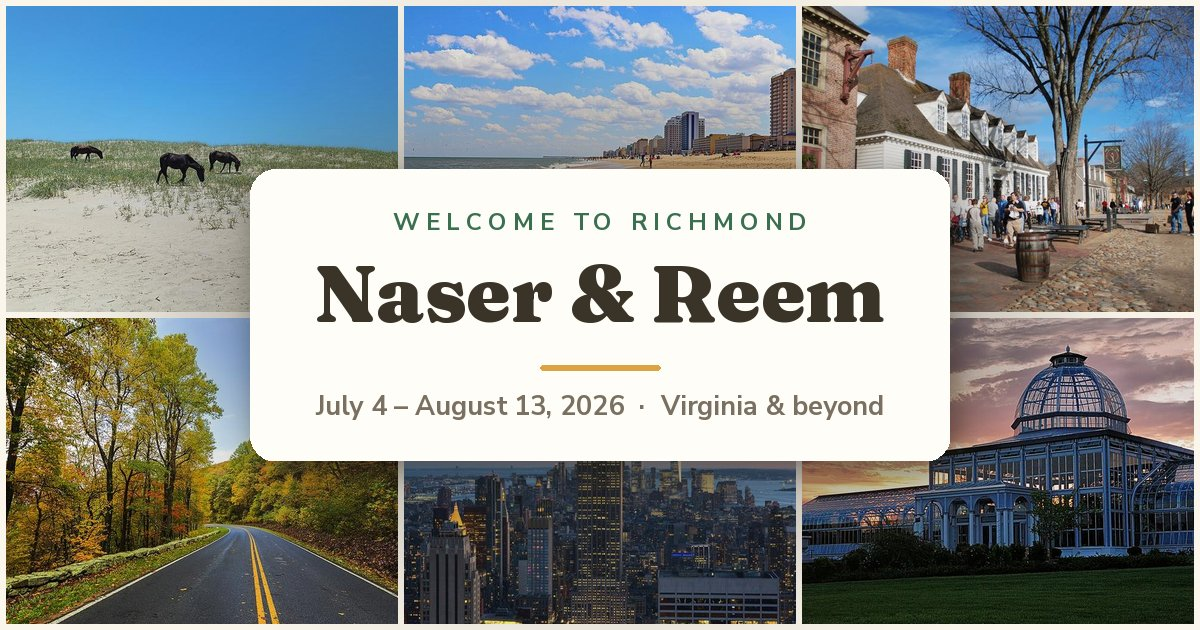
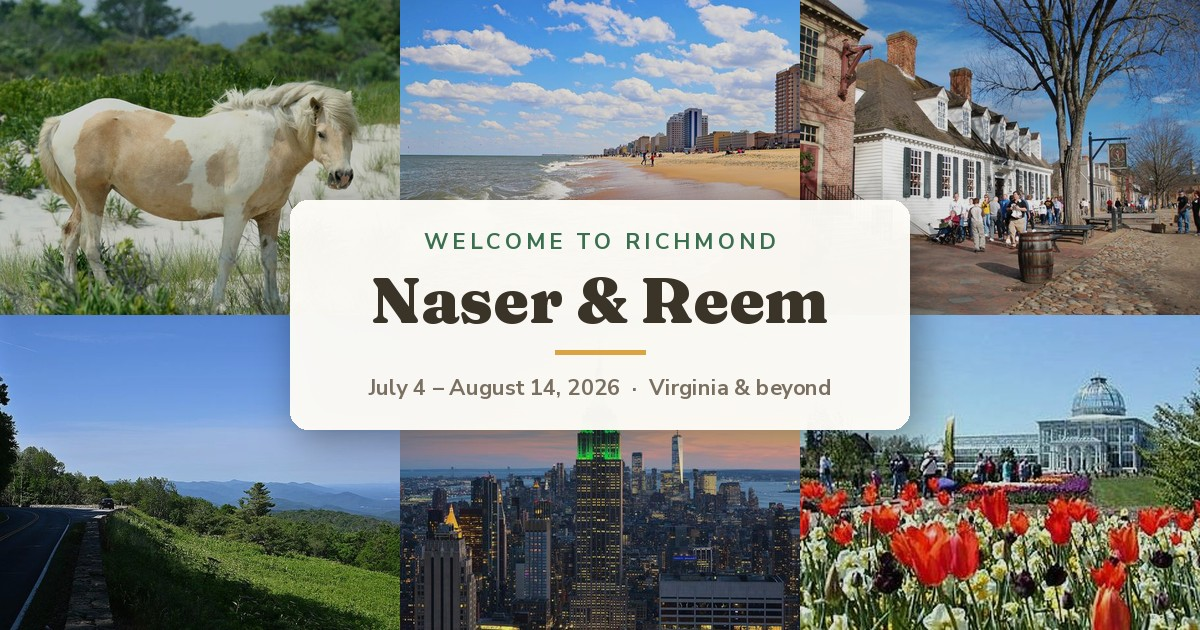
Fix wallpaper and meta text to the corrected Aug 14 departure date
The WhatsApp/social link-preview collage (public/og-image.jpg) and its
surrounding meta description/alt text still said "Aug 13" from before the
boarding-pass date correction — regenerated the image and updated the text
to July 4 – August 14, 2026.

diff --git a/index.html b/index.html
@@ -13,15 +13,15 @@
 
     <meta property="og:type" content="website" />
     <meta property="og:title" content="Welcome Naser & Reem — Richmond, VA 2026" />
-    <meta property="og:description" content="An interactive welcome and trip itinerary for Naser & Reem's visit to Richmond, VA, July 4 – Aug 13, 2026." />
+    <meta property="og:description" content="An interactive welcome and trip itinerary for Naser & Reem's visit to Richmond, VA, July 4 – Aug 14, 2026." />
     <meta property="og:url" content="https://alaaqamhieh.github.io/Naser-Reem-US-Vacation-2026/" />
     <meta property="og:image" content="https://alaaqamhieh.github.io/Naser-Reem-US-Vacation-2026/og-image.jpg" />
     <meta property="og:image:width" content="1200" />
     <meta property="og:image:height" content="630" />
-    <meta property="og:image:alt" content="Welcome to Richmond — Naser & Reem, July 4 to August 13 2026, over a collage of trip destinations" />
+    <meta property="og:image:alt" content="Welcome to Richmond — Naser & Reem, July 4 to August 14 2026, over a collage of trip destinations" />
     <meta name="twitter:card" content="summary_large_image" />
     <meta name="twitter:title" content="Welcome Naser & Reem — Richmond, VA 2026" />
-    <meta name="twitter:description" content="An interactive welcome and trip itinerary for Naser & Reem's visit to Richmond, VA, July 4 – Aug 13, 2026." />
+    <meta name="twitter:description" content="An interactive welcome and trip itinerary for Naser & Reem's visit to Richmond, VA, July 4 – Aug 14, 2026." />
     <meta name="twitter:image" content="https://alaaqamhieh.github.io/Naser-Reem-US-Vacation-2026/og-image.jpg" />
 
     <link rel="preconnect" href="https://fonts.googleapis.com" />
